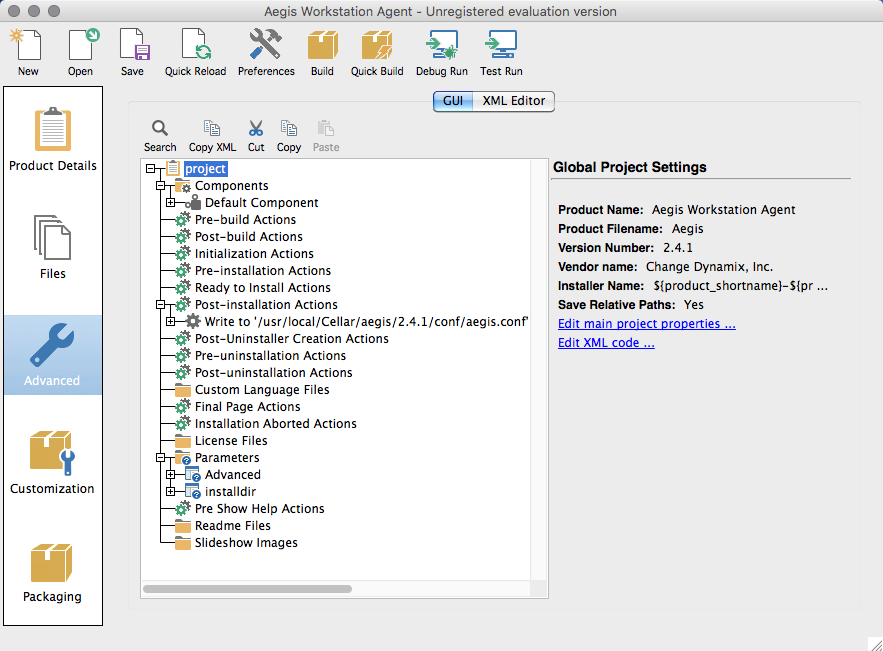
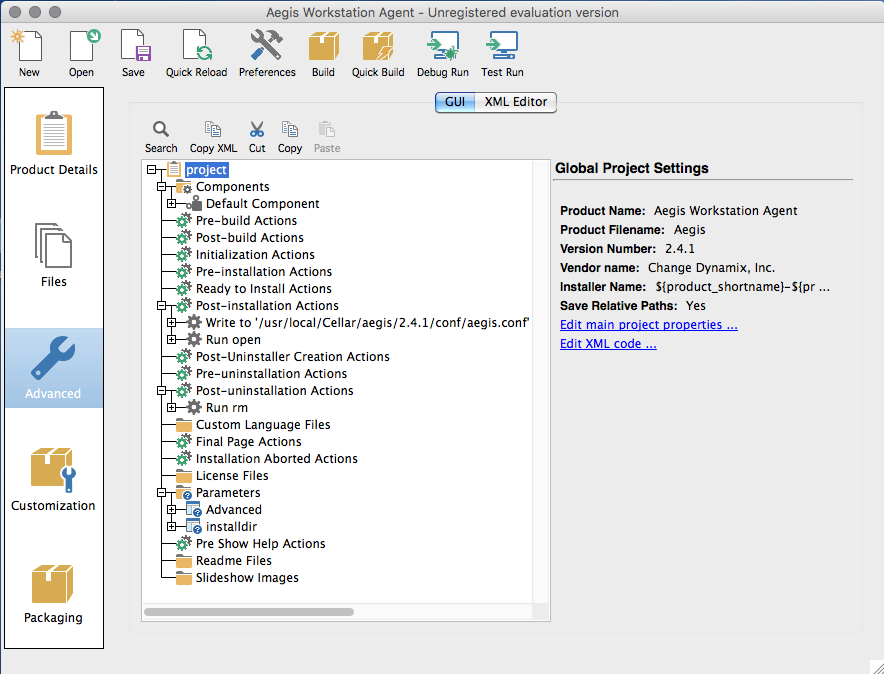
Updated readme

diff --git a/InstallBuilder/README.md b/InstallBuilder/README.md
@@ -11,24 +11,38 @@ Project will be loaded.
 
 In the left column you will see five main project tabs.
 
-In the "Product Details" tab you can setup all package information like product name, product version, vendor name etc.
+In the "Product Details" tab you can setup the package information like product name, product version, vendor name etc.
 
 ![alt text](ProductDetails.png)
 
-In the "Files" tab you can set up project files destination paths.
+In the "Files" tab you can set up the project files destination paths.
 
 Aegis files must be installed in /usr/local/
 
-Startup aegis plist file must be installed in /Library/LaunchDaemons/
+Startup Aegis plist file must be installed in /Library/LaunchDaemons/
 
-To install Aegis Google Chrome extension json file must be located in /Library/Application Support/Google/Chrome/External Extensions/
+"Aegis Google Chrome extension" json file must be installed in /Library/Application Support/Google/Chrome/External Extensions/
+
+"Aegis Safari extension" file must be installed in Program Files (Mac OS X) 
 
 ![alt text](Files.png)
 
-"Advanced" tab allows you to create menu with installations parameters. Select "Parameters" folder to edit it.
+"Advanced" tab allows you to create menu with the installations parameters and custom scripts. 
+
+Select "Advanced" in the "Parameters" folder to edit Aegis configuration menu.
+
+Select "Post-installation Actions" to edit the installer scripts. There are:
+
+    - script to update Aegis config file
+
+    - script to install Aegis Safari extension
+
+Select "Post-uninstallation Actions" to edit the uninstaller scripts. There are:
+
+    - script to uninstall Aegis Safari extension
 
 ![alt text](Advanced.png)
 
-After all files will be placed click "Build" in the InstallBuilder main menu.
+After all actions will be done click "Build" in the InstallBuilder main menu.
 
-After a successful build installation package will be located in "/Applications/BitRock InstallBuilder/output/" folder.
+After a successful build the installation package will be located in "/Applications/BitRock InstallBuilder/output/" folder.
